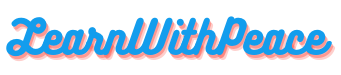
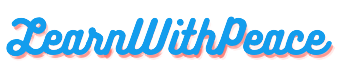
additions done

diff --git a/Homepage/login.html b/Homepage/login.html
@@ -11,6 +11,9 @@
 	<main class="main">
 		<div class="container">
 			<section class="wrapper">
+				<div class="logo">
+					<a href="homepage.html"><img src="logo.png"></a>
+				</div>
 				<div class="heading">
 					<h1 class="text text-large">Sign In</h1>
 					<p class="text text-normal">New user? <span><a href="createAccount.html" class="text text-links">Create an account</a></span>

diff --git a/Homepage/login.css b/Homepage/login.css
@@ -227,3 +227,8 @@
   .main .wrapper .method-action:hover {
     background: var(--color-light);
   }
+  .main .container .logo{
+    width: 40%;
+    height: 40%;
+    margin: auto;
+  }
